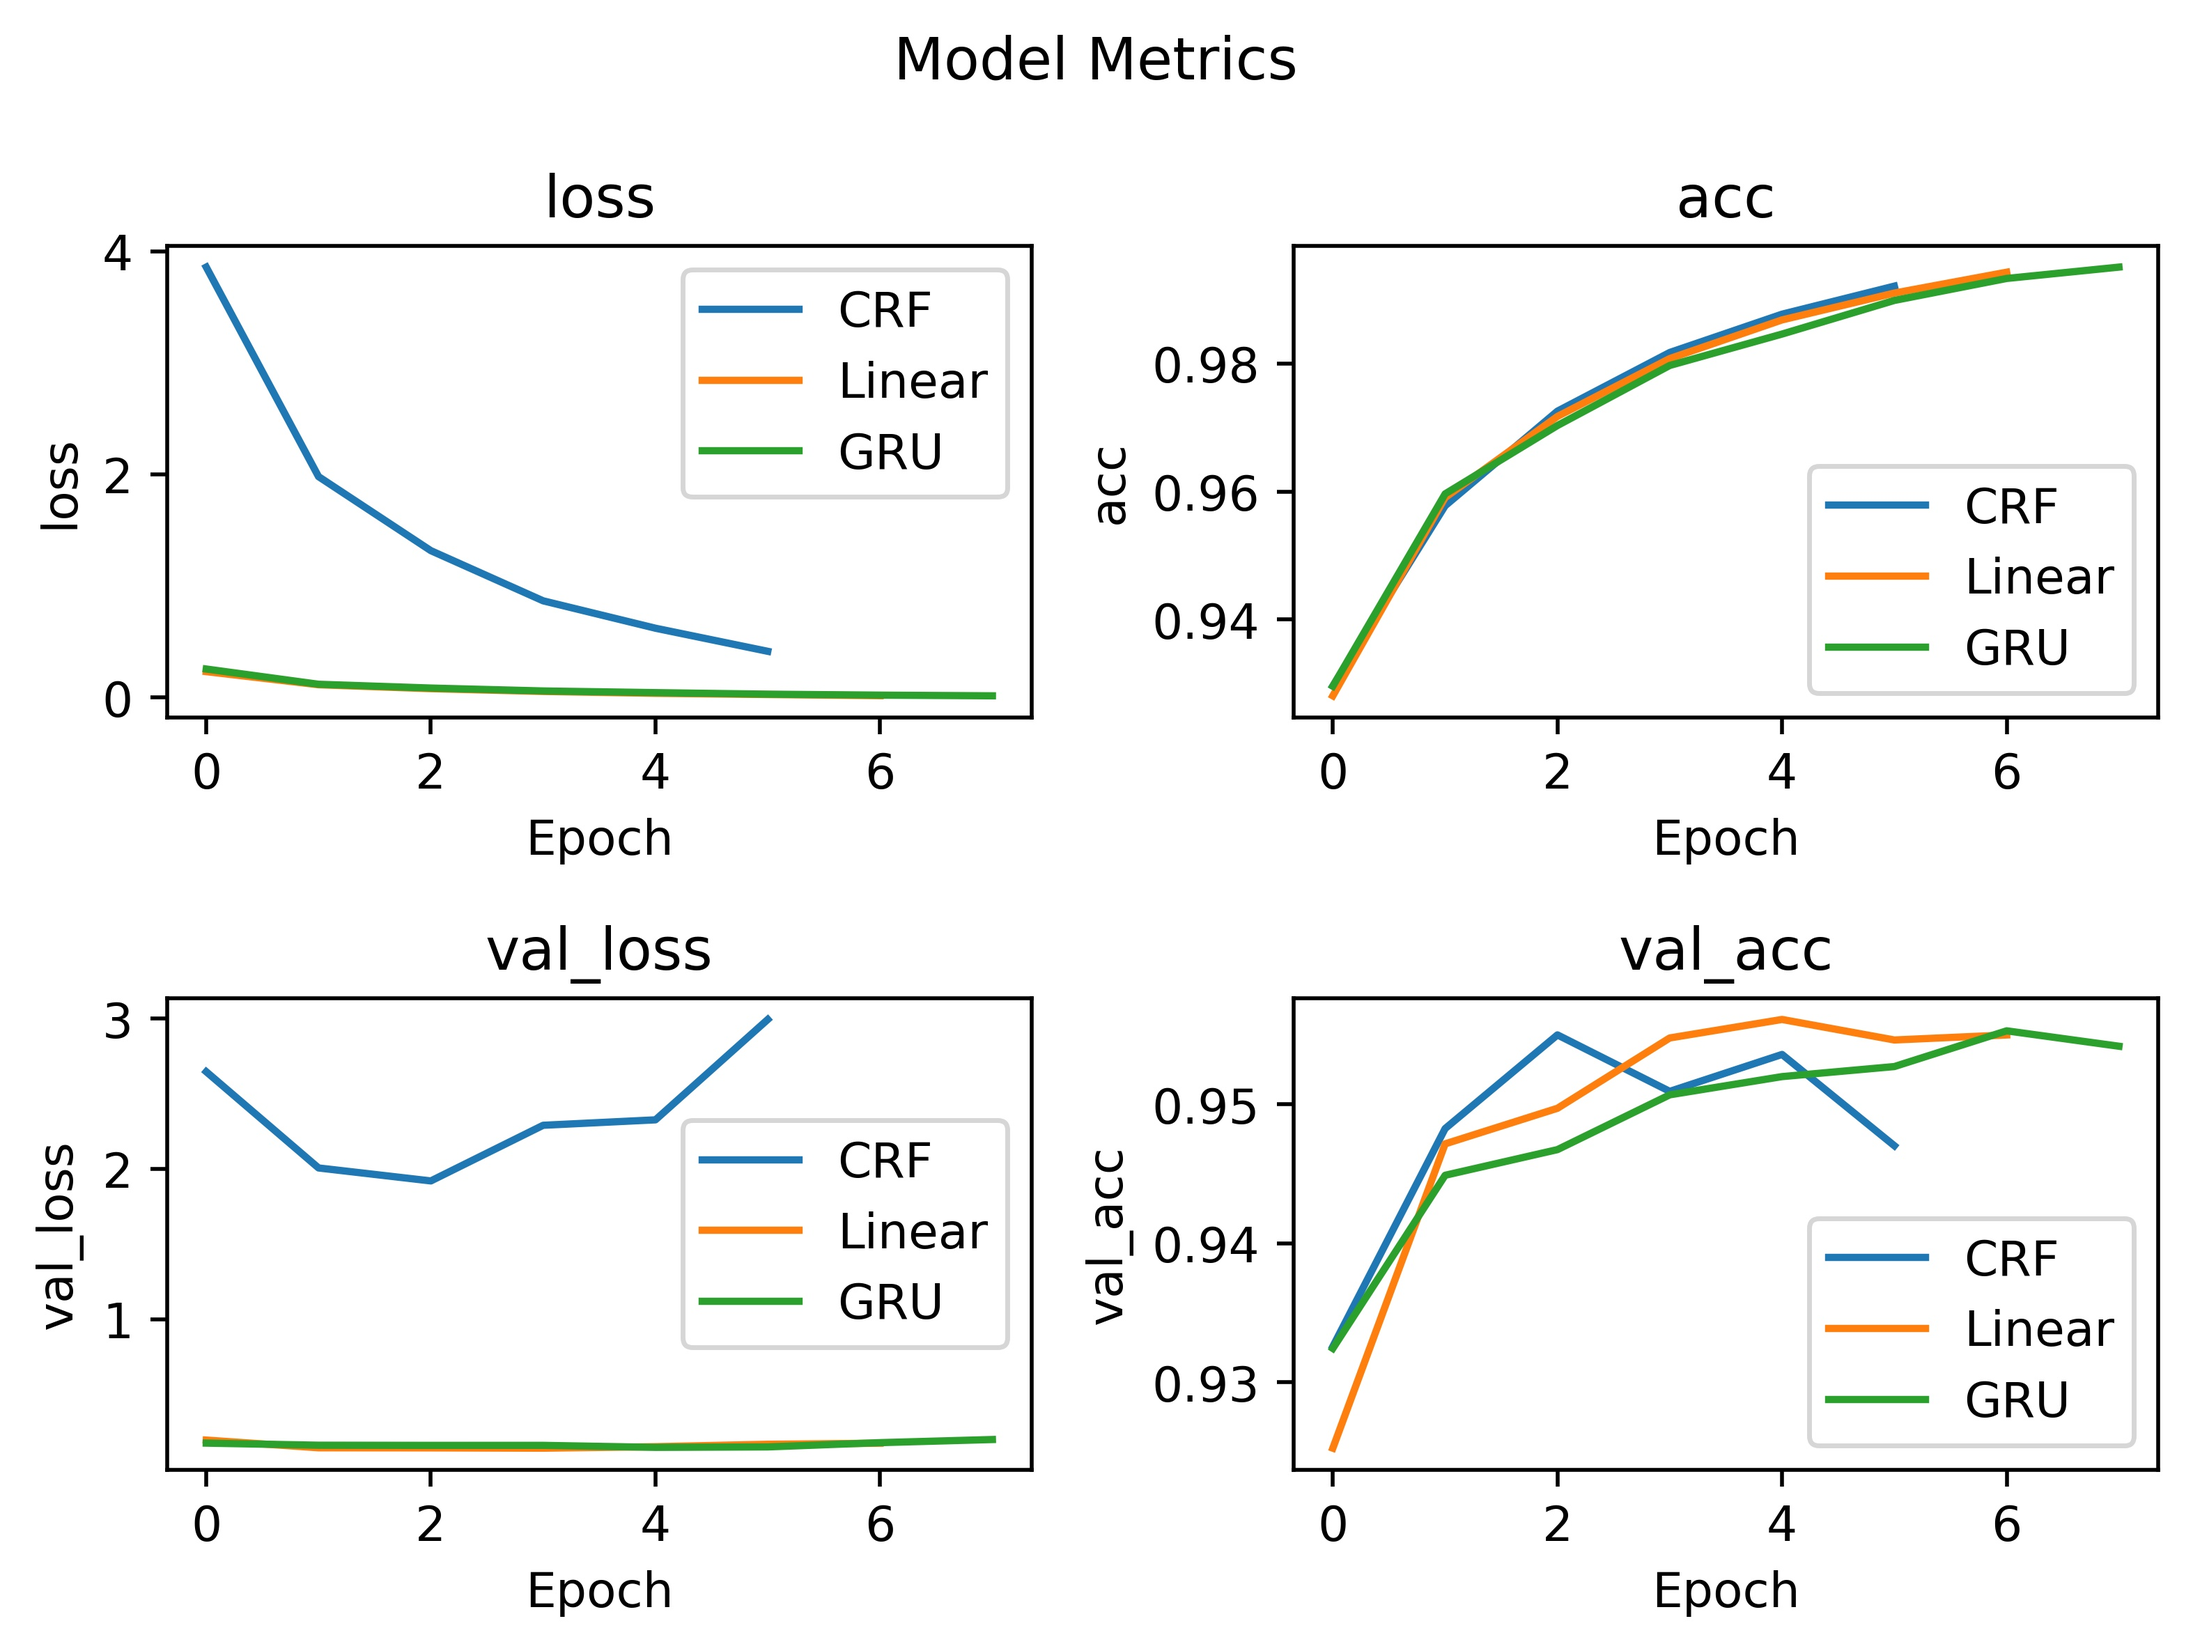
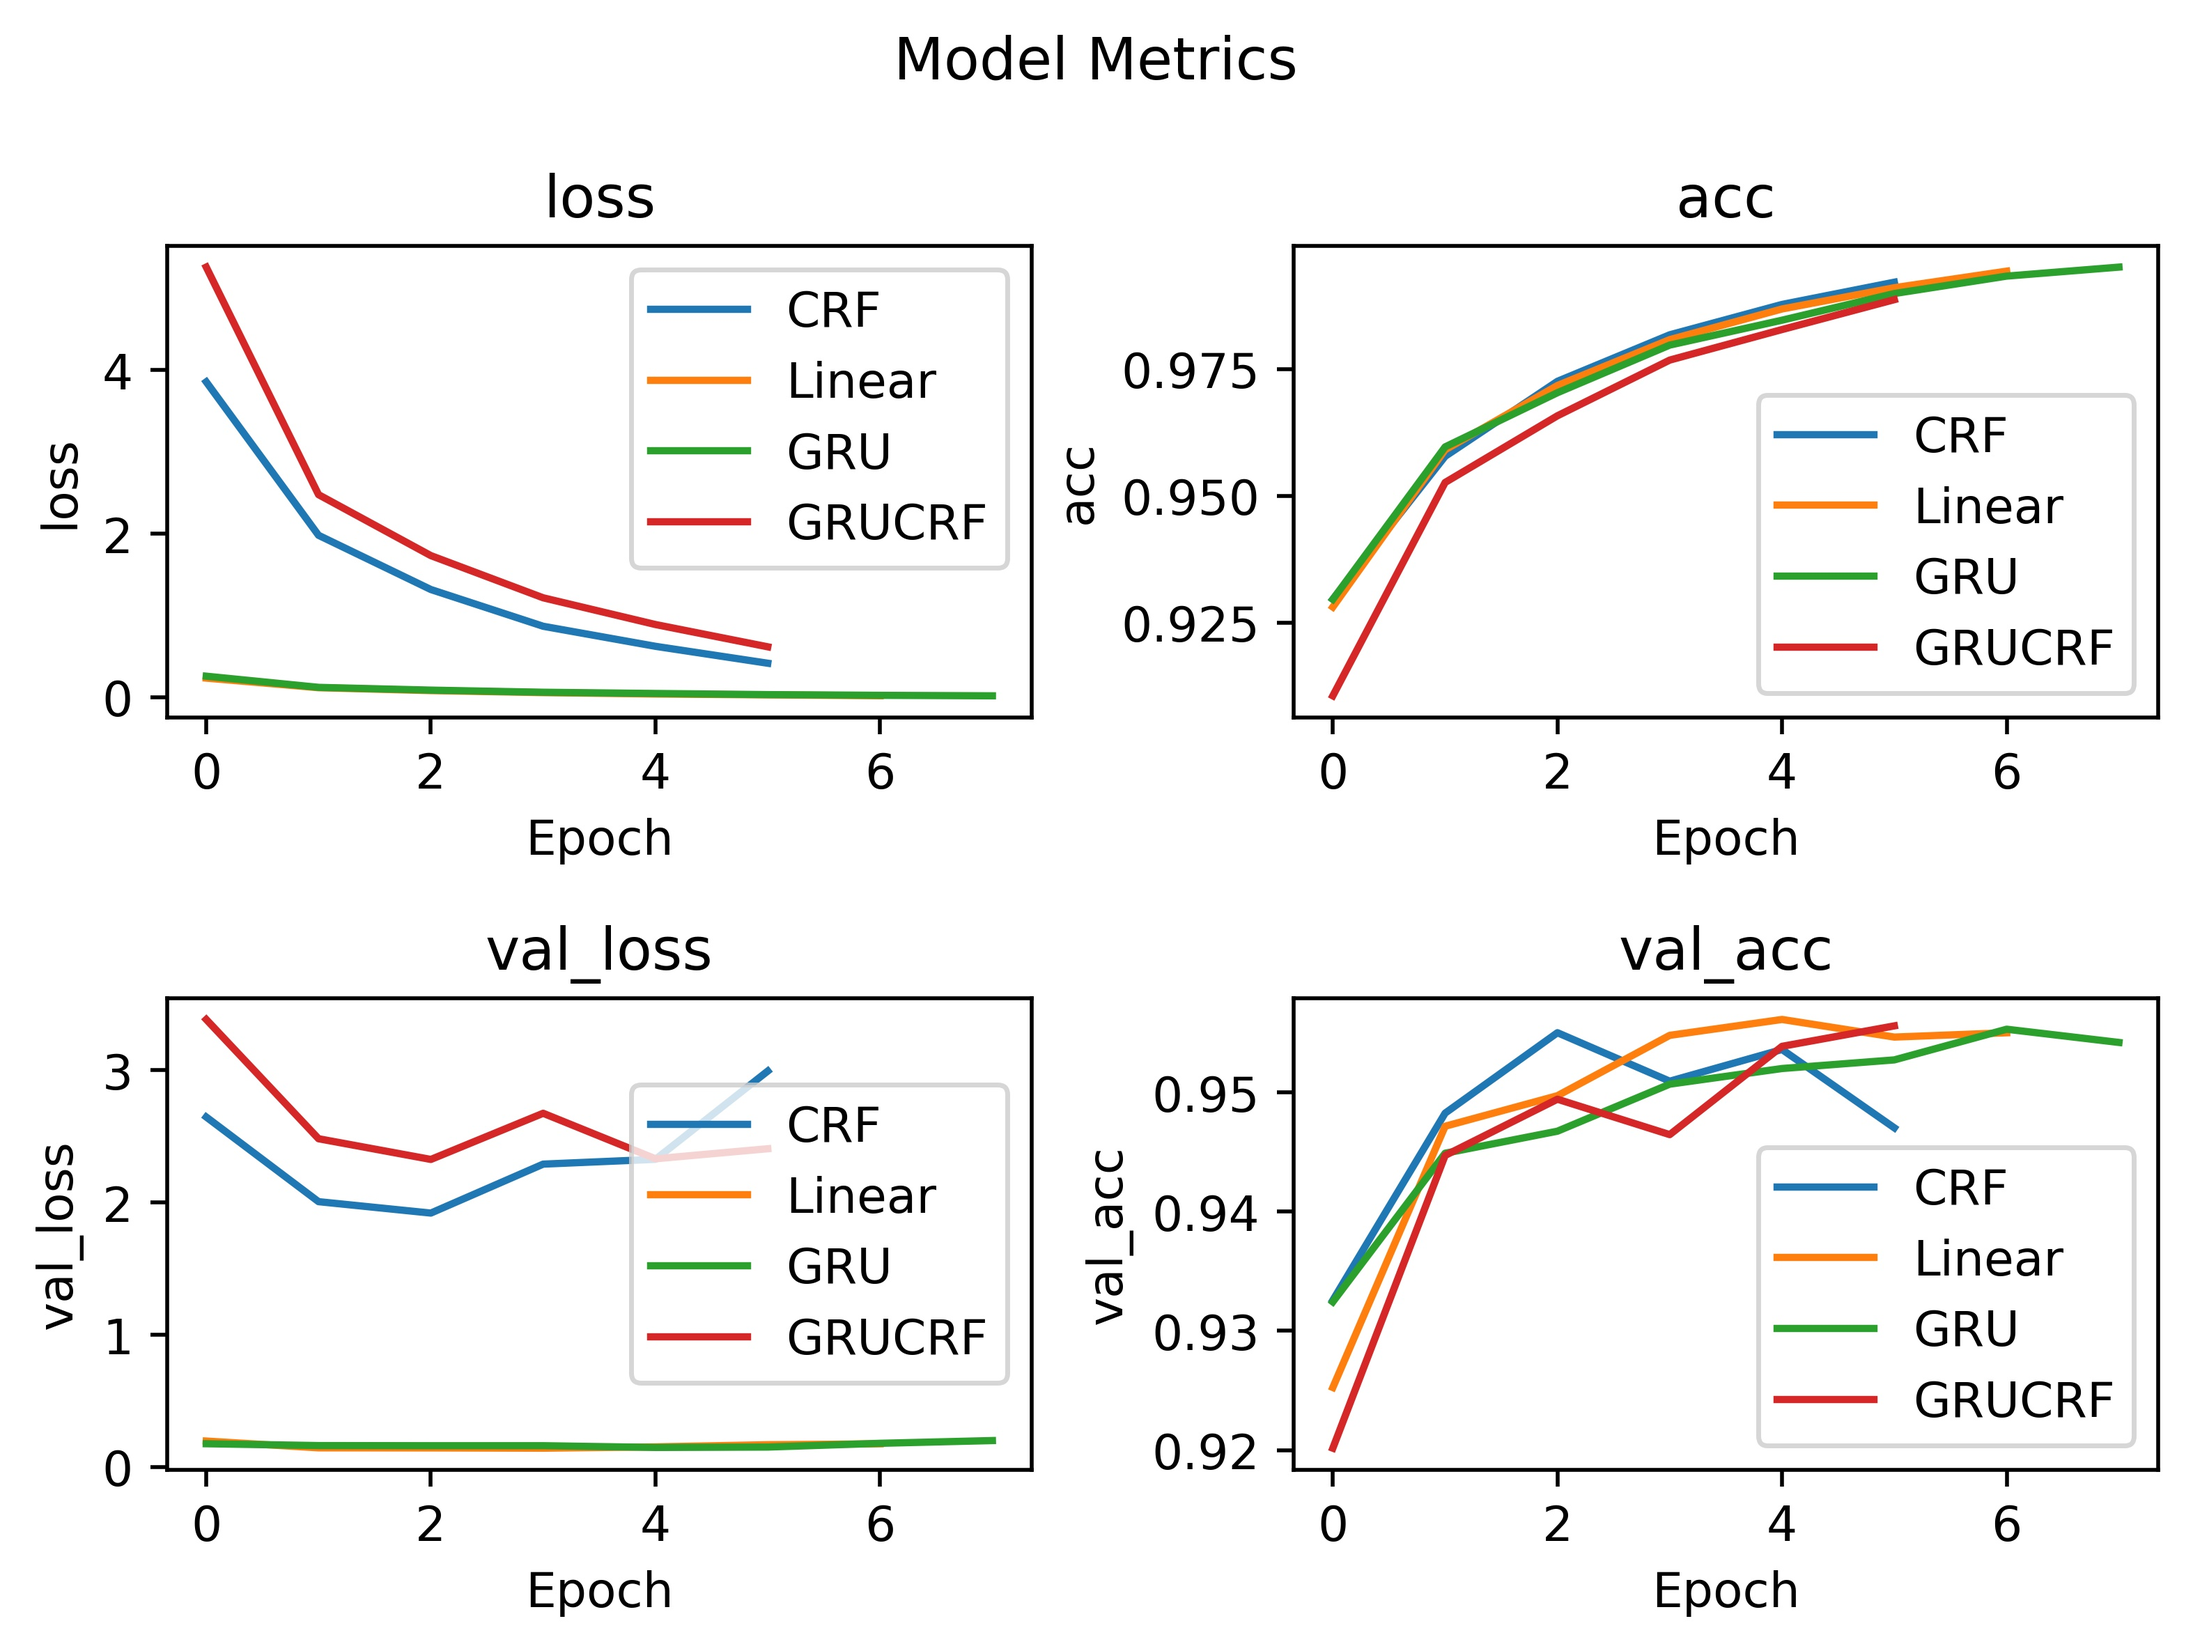
file add

diff --git a/absa_bertbigrucrf.py b/absa_bertbigrucrf.py
@@ -1,0 +1,206 @@
+'''
+    bert + bigru + CRF for ner with tf2.0
+    bert通过transformers加载
+'''
+
+import tensorflow as tf
+from tensorflow.keras import Model
+from tensorflow.keras.layers import Input, Layer, Bidirectional, GRU
+from transformers.optimization_tf import AdamWeightDecay
+from transformers import TFBertModel, BertTokenizer
+from tensorflow.keras.callbacks import EarlyStopping, ModelCheckpoint
+from absalayer import CRF
+
+import sys, os
+import argparse
+
+os.environ["CUDA_VISIBLE_DEVICES"] = "0"  # 使用GPU
+os.environ['TF_CPP_MIN_LOG_LEVEL'] = '2'  # 屏蔽警告信息
+
+parser = argparse.ArgumentParser(description='manual to this script')
+parser.add_argument('--batch_size', type=int, default=8, help='Batch size during training')
+parser.add_argument('--epochs', type=int, default=10, help='Epochs during training')
+parser.add_argument('--lr', type=float, default=1.0e-5, help='Initial learing rate')
+parser.add_argument('--label_dim', type=int, default=4, help='number of ner labels')
+parser.add_argument('--check', type=str, default='model/absa_bertbigrucrf', help='The path where model shall be saved')
+parser.add_argument('--mode', type=str, default='train0', help='The mode of train or predict as follows: '
+                                                               'train0: begin to train or retrain'
+                                                               'tran1:continue to train'
+                                                               'predict: predict')
+params = parser.parse_args()
+
+
+def single_example_parser(serialized_example):
+    sequence_features = {
+        'sen': tf.io.FixedLenSequenceFeature([], tf.int64),
+        'lab': tf.io.FixedLenSequenceFeature([], tf.int64),
+    }
+
+    _, sequence_parsed = tf.io.parse_single_sequence_example(
+        serialized=serialized_example,
+        sequence_features=sequence_features
+    )
+
+    sen = sequence_parsed['sen']
+    lab = sequence_parsed['lab']
+    return {"sen": sen, "lab": lab}
+
+
+def batched_data(tfrecord_filename, single_example_parser, batch_size, padded_shapes, buffer_size=1000, shuffle=True):
+    dataset = tf.data.TFRecordDataset(tfrecord_filename)
+    if shuffle:
+        dataset = dataset.shuffle(buffer_size)
+    dataset = dataset.map(single_example_parser) \
+        .padded_batch(batch_size, padded_shapes=padded_shapes, drop_remainder=True) \
+        .prefetch(buffer_size=tf.data.experimental.AUTOTUNE)
+
+    return dataset
+
+
+class Mask(Layer):
+    def __init__(self, **kwargs):
+        super(Mask, self).__init__(**kwargs)
+
+    def call(self, sen, **kwargs):
+        sequencemask = tf.cast(tf.greater(sen, 0), tf.int32)
+
+        return tf.reduce_sum(sequencemask, axis=-1) - 2
+
+
+class BERT(Layer):
+    def __init__(self, **kwargs):
+        super(BERT, self).__init__(**kwargs)
+
+        self.bert = TFBertModel.from_pretrained("bert-base-uncased")
+
+    def call(self, inputs, **kwargs):
+        return self.bert(inputs)[0]
+
+
+class SplitSequence(Layer):
+    def __init__(self, **kwargs):
+        super(SplitSequence, self).__init__(**kwargs)
+
+    def call(self, x, **kwargs):
+        return x[:, 1:-1]
+
+
+class CheckCallback(tf.keras.callbacks.Callback):
+    def on_epoch_end(self, epoch, logs=None):
+        predict = self.model.predict([sents, tf.ones_like(sents)[:, 1:-1]])
+        querycheck(predict)
+
+
+def querycheck(predict):
+    sys.stdout.write('\n')
+    sys.stdout.flush()
+    for i, pre in enumerate(predict):
+        sys.stdout.write(newsentences[i] + '\n')
+        for j in range(lens[i]):
+            sys.stdout.write(ner_inverse_dict[pre[j]] + ' ')
+        sys.stdout.write('\n\n')
+        sys.stdout.flush()
+    sys.stdout.write('\n')
+    sys.stdout.flush()
+
+
+class USER:
+    def __init__(self):
+        self.tokenizer = BertTokenizer.from_pretrained("bert-base-uncased")
+
+    def build_model(self):
+        sen = Input(shape=[None], name='sen', dtype=tf.int32)
+        lab = Input(shape=[None], name='lab', dtype=tf.int32)
+
+        seqlen = Mask(name="mask")(sen)
+
+        sequence_output = BERT(name="bert")(sen)
+
+        sequence_split = SplitSequence(name="splitsequence")(sequence_output)
+
+        gruoutput = Bidirectional(GRU(512, return_sequences=True))(sequence_split)
+
+        predict = CRF(label_dim=params.label_dim, name="crf")(inputs=(gruoutput, lab, seqlen))
+
+        model = Model(inputs=[sen, lab], outputs=predict)
+
+        model.summary()
+
+        return model
+
+    def train(self):
+        model = self.build_model()
+
+        if params.mode == 'train1':
+            model.load_weights(params.check + '/absa.h5')
+
+        optimizer = AdamWeightDecay(learning_rate=params.lr,
+                                    weight_decay_rate=0.01,
+                                    epsilon=1.0e-6,
+                                    exclude_from_weight_decay=["LayerNorm", "layer_norm", "bias"])
+
+        model.compile(optimizer=optimizer)
+
+        batch_data = batched_data(['data/TFRecordFiles/laptop14_train.tfrecord'],
+                                  single_example_parser,
+                                  params.batch_size,
+                                  padded_shapes={"sen": [-1], "lab": [-1]},
+                                  buffer_size=100 * params.batch_size)
+
+        test_data = batched_data(['data/TFRecordFiles/laptop14_test.tfrecord'],
+                                 single_example_parser,
+                                 params.batch_size,
+                                 padded_shapes={"sen": [-1], "lab": [-1]},
+                                 buffer_size=100 * params.batch_size)
+
+        callbacks = [
+            EarlyStopping(monitor='val_loss', patience=3),
+            ModelCheckpoint(filepath=params.check + '/absa.h5',
+                            monitor='val_loss',
+                            save_best_only=True),
+            CheckCallback()
+        ]
+
+        history = model.fit(batch_data,
+                            epochs=params.epochs,
+                            validation_data=test_data,
+                            callbacks=callbacks
+                            )
+
+        with open(params.check + "/history.txt", "w", encoding="utf-8") as fw:
+            fw.write(str(history.history))
+
+    def predict(self):
+        model = self.build_model()
+        model.load_weights(params.check + '/absa.h5')
+
+        predict = model.predict([sents, tf.ones_like(sents)[:, 1:-1]])
+
+        querycheck(predict)
+
+
+if __name__ == '__main__':
+    ner_dict = {"O": 0, "T-POS": 1, "T-NEU": 2, "T-NEG": 3}
+    ner_inverse_dict = {v: k for k, v in ner_dict.items()}
+
+    if not os.path.exists(params.check):
+        os.makedirs(params.check)
+
+    user = USER()
+    sentences = [
+        'MAYBE The Mac OS improvement were not The product they Want to offer.',
+        'They are simpler to use.',
+        'so I called technical support.',
+    ]
+
+    newsentences = [user.tokenizer.tokenize(sentences[i]) for i in range(len(sentences))]
+    lens = [len(newsentences[i]) for i in range(len(sentences))]
+
+    newsentences = [" ".join(newsentences[i]) for i in range(len(sentences))]
+
+    sents = user.tokenizer(sentences, padding=True, return_tensors="tf")["input_ids"]
+
+    if params.mode.startswith('train'):
+        user.train()
+    else:
+        user.predict()

diff --git a/visualize.py b/visualize.py
@@ -4,6 +4,10 @@ with open("model/absa_bertcrf/history.txt", "r", encoding="utf-8") as fr:
     history_bertcrf = fr.read()
     history_bertcrf = eval(history_bertcrf)
 
+with open("model/absa_bertbigrucrf/history.txt", "r", encoding="utf-8") as fr:
+    history_bertbigrucrf = fr.read()
+    history_bertbigrucrf = eval(history_bertbigrucrf)
+
 with open("model/absa_bertlinear/history.txt", "r", encoding="utf-8") as fr:
     history_bertlinear = fr.read()
     history_bertlinear = eval(history_bertlinear)
@@ -16,37 +20,41 @@ plt.subplot(221)
 plt.plot(history_bertcrf["loss"])
 plt.plot(history_bertlinear["loss"])
 plt.plot(history_bertgru["loss"])
+plt.plot(history_bertbigrucrf["loss"])
 plt.title('loss')
 plt.ylabel('loss')
 plt.xlabel('Epoch')
-plt.legend(['CRF', 'Linear','GRU'])
+plt.legend(['CRF', 'Linear', 'GRU', 'GRUCRF'])
 
 plt.subplot(222)
 plt.plot(history_bertcrf["crf_acc"])
 plt.plot(history_bertlinear["acc"])
 plt.plot(history_bertgru["acc"])
+plt.plot(history_bertbigrucrf["crf_acc"])
 plt.title('acc')
 plt.ylabel('acc')
 plt.xlabel('Epoch')
-plt.legend(['CRF', 'Linear','GRU'])
+plt.legend(['CRF', 'Linear', 'GRU', 'GRUCRF'])
 
 plt.subplot(223)
 plt.plot(history_bertcrf["val_loss"])
 plt.plot(history_bertlinear["val_loss"])
 plt.plot(history_bertgru["val_loss"])
+plt.plot(history_bertbigrucrf["val_loss"])
 plt.title('val_loss')
 plt.ylabel('val_loss')
 plt.xlabel('Epoch')
-plt.legend(['CRF', 'Linear','GRU'])
+plt.legend(['CRF', 'Linear', 'GRU', 'GRUCRF'])
 
 plt.subplot(224)
 plt.plot(history_bertcrf["val_crf_acc"])
 plt.plot(history_bertlinear["val_acc"])
 plt.plot(history_bertgru["val_acc"])
+plt.plot(history_bertbigrucrf["val_crf_acc"])
 plt.title('val_acc')
 plt.ylabel('val_acc')
 plt.xlabel('Epoch')
-plt.legend(['CRF', 'Linear','GRU'])
+plt.legend(['CRF', 'Linear', 'GRU', 'GRUCRF'])
 
 plt.suptitle("Model Metrics")
 
